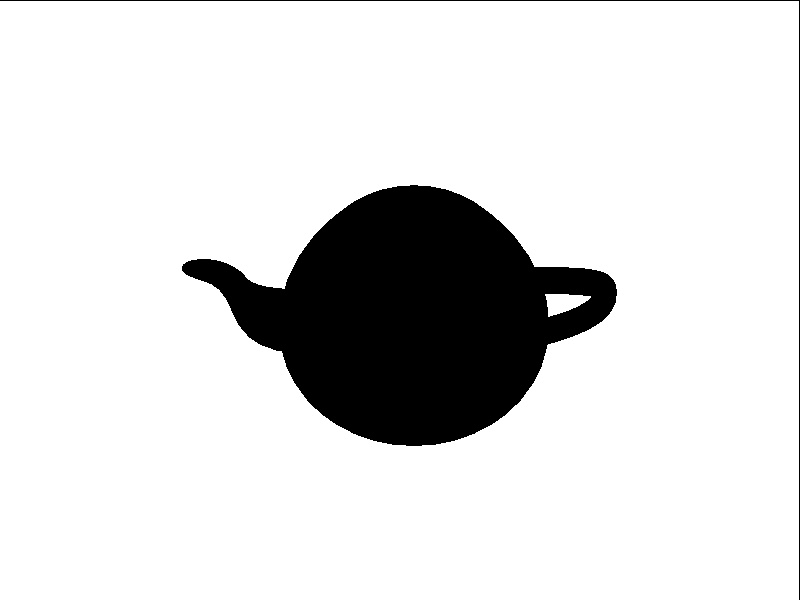
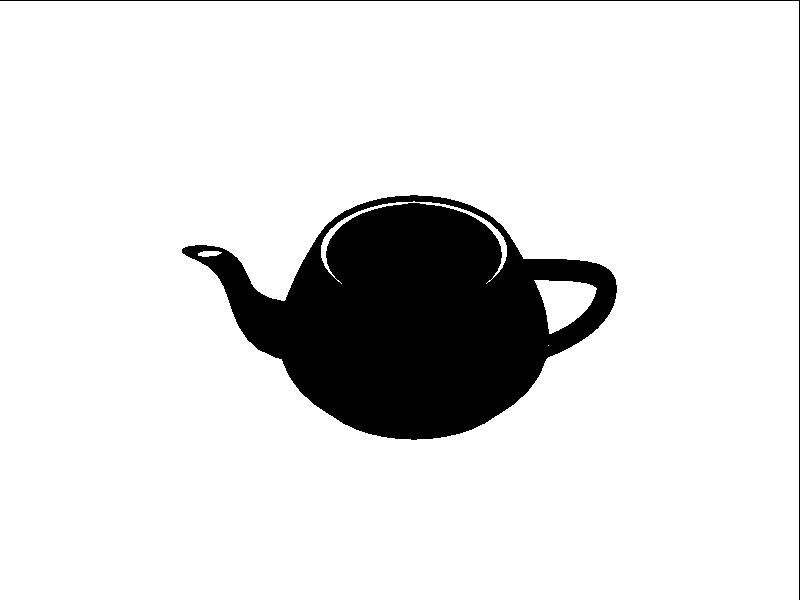
fixed definitively 7 projections+results

diff --git a/main.cpp b/main.cpp
@@ -114,52 +114,66 @@ int main()
                 switch(i){
                 case 1:               
                     //front projection
-                    pos_transform =  transform_OBB.GetModel() * glm::vec4(cubeMesh->centre.x, cubeMesh->centre.y, -view_distance, 1);
+                    pos_transform =  transform_camera.GetModel() * transform_OBB.GetModel() * glm::vec4(cubeMesh->centre.x, cubeMesh->centre.y, -view_distance, 1);
                     pos_transform /= pos_transform.w;
                     pos = glm::vec3(pos_transform.x, pos_transform.y, pos_transform.z);
-                    up = glm::vec3(0.0f, 1.0f, 0.0f);
+                    up_transform = transform_camera.GetModel() * transform_OBB.GetModel() * glm::vec4(0.0f, 1.0f, 0.0f,1);
+                    up_transform /= up_transform.w;
+                    up = glm::vec3(up_transform.x, up_transform.y, up_transform.z);
                     break;
                 case 2:               
                     //left projection
-                    pos_transform = transform_OBB.GetModel() * glm::vec4(view_distance, cubeMesh->centre.y, cubeMesh->centre.z, 1);
+                    pos_transform = transform_camera.GetModel() * transform_OBB.GetModel() * glm::vec4(view_distance, cubeMesh->centre.y, cubeMesh->centre.z, 1);
                     pos_transform /= pos_transform.w;
                     pos = glm::vec3(pos_transform.x,pos_transform.y,pos_transform.z);
-                    up = glm::vec3(0.0f, 1.0f, 0.0f);
+                    up_transform = transform_camera.GetModel() * transform_OBB.GetModel() * glm::vec4(0.0f, 1.0f, 0.0f,1);
+                    up_transform /= up_transform.w;
+                    up = glm::vec3(up_transform.x, up_transform.y, up_transform.z);
                     break;                
                 case 3:                
                     //top projection
-                    pos_transform = transform_OBB.GetModel() * glm::vec4(cubeMesh->centre.x, view_distance, cubeMesh->centre.z, 1);
+                    pos_transform = transform_camera.GetModel() * transform_OBB.GetModel() * glm::vec4(cubeMesh->centre.x, view_distance, cubeMesh->centre.z, 1);
                     pos_transform /= pos_transform.w;
                     pos = glm::vec3(pos_transform.x, pos_transform.y, pos_transform.z);
-                    up = glm::vec3(0.0f, 0.0f, 1.0f);
+                    up_transform = transform_camera.GetModel() * transform_OBB.GetModel() * glm::vec4(0.0f, 0.0f, 1.0f,1);
+                    up_transform /= up_transform.w;
+                    up = glm::vec3(up_transform.x, up_transform.y, up_transform.z);
                     break;                
                 case 4:
                     //top-front-left projection
-                    pos_transform = transform_OBB.GetModel() * glm::vec4(cubeMesh->centre.x - view_distance, cubeMesh->centre.y + view_distance, cubeMesh->centre.z - view_distance, 1);
+                    pos_transform = transform_camera.GetModel() * transform_OBB.GetModel() * glm::vec4(cubeMesh->centre.x - view_distance, cubeMesh->centre.y + view_distance, cubeMesh->centre.z - view_distance, 1);
                     pos_transform /= pos_transform.w;
                     pos = glm::vec3(pos_transform.x, pos_transform.y, pos_transform.z);
-                    up = glm::vec3(0.0f, 1.0f, 0.0f);
+                    up_transform = transform_camera.GetModel() * transform_OBB.GetModel() * glm::vec4(0.0f, 1.0f, 0.0f,1);
+                    up_transform /= up_transform.w;
+                    up = glm::vec3(up_transform.x, up_transform.y, up_transform.z);
                     break;
                 case 5:
                     //top-back-left projection
-                    pos_transform = transform_OBB.GetModel() * glm::vec4(cubeMesh->centre.x - view_distance, cubeMesh->centre.y + view_distance, cubeMesh->centre.z + view_distance, 1);
+                    pos_transform = transform_camera.GetModel() * transform_OBB.GetModel() * glm::vec4(cubeMesh->centre.x - view_distance, cubeMesh->centre.y + view_distance, cubeMesh->centre.z + view_distance, 1);
                     pos_transform /= pos_transform.w;
                     pos = glm::vec3(pos_transform.x, pos_transform.y, pos_transform.z);
-                    up = glm::vec3(0.0f, 1.0f, 0.0f);
+                    up_transform = transform_camera.GetModel() * transform_OBB.GetModel() * glm::vec4(0.0f, 1.0f, 0.0f,1);
+                    up_transform /= up_transform.w;
+                    up = glm::vec3(up_transform.x, up_transform.y, up_transform.z);
                     break;
                 case 6:
                     //top-back-right projection
-                    pos_transform = transform_OBB.GetModel() * glm::vec4(cubeMesh->centre.x + view_distance, cubeMesh->centre.y + view_distance, cubeMesh->centre.z + view_distance, 1);
+                    pos_transform = transform_camera.GetModel() * transform_OBB.GetModel() * glm::vec4(cubeMesh->centre.x + view_distance, cubeMesh->centre.y + view_distance, cubeMesh->centre.z + view_distance, 1);
                     pos_transform /= pos_transform.w;
                     pos = glm::vec3(pos_transform.x, pos_transform.y, pos_transform.z);
-                    up = glm::vec3(0.0f, 1.0f, 0.0f);
+                    up_transform = transform_camera.GetModel() * transform_OBB.GetModel() * glm::vec4(0.0f, 1.0f, 0.0f,1);
+                    up_transform /= up_transform.w;
+                    up = glm::vec3(up_transform.x, up_transform.y, up_transform.z);
                     break;
                 case 7:
                     //top-front-right projection
-                    pos_transform = transform_OBB.GetModel() * glm::vec4(cubeMesh->centre.x + view_distance, cubeMesh->centre.y + view_distance, cubeMesh->centre.z - view_distance, 1);
+                    pos_transform = transform_camera.GetModel() * transform_OBB.GetModel() * glm::vec4(cubeMesh->centre.x + view_distance, cubeMesh->centre.y + view_distance, cubeMesh->centre.z - view_distance, 1);
                     pos_transform /= pos_transform.w;
                     pos = glm::vec3(pos_transform.x, pos_transform.y, pos_transform.z);
-                    up = glm::vec3(0.0f, 1.0f, 0.0f);
+                    up_transform = transform_camera.GetModel() * transform_OBB.GetModel() * glm::vec4(0.0f, 1.0f, 0.0f,1);
+                    up_transform /= up_transform.w;
+                    up = glm::vec3(up_transform.x, up_transform.y, up_transform.z);
                     break;
                 }
                 camera = Camera(pos, mesh, ASPECT, up, 0.1f, 1000.0f);

diff --git a/similarityevaluator.cpp b/similarityevaluator.cpp
@@ -17,6 +17,7 @@ void SimilarityEvaluator::LoadSilhouettesContour(){
     string silPath;
     Mat silSRC, gray;
     SilhouetteData temp_silhouette;
+    silhouettes.clear();
 
     for(int i = 1; i <= n_silhouettes; i++){
 
@@ -70,7 +71,7 @@ vector<Point2d> SimilarityEvaluator::GetContour(cv::Mat gray){
 ////FOURIER DESCRIPTORS
 vector<int> SimilarityEvaluator::CompareFourier(){
     float difference = 0.0f;
-    vector<tuple<int, float>> scores;
+    vector<float> scores;
     std::cout << "-------------FOURIER DESCRIPTORS-------------" << std::endl;
     for(int i = 0; i < n_silhouettes; i++){
            vector<complex<float>> silFD = GetFourierDescriptors(silhouettes.at(i).silhouette, silhouettes.at(i).silIMG);
@@ -79,7 +80,7 @@ vector<int> SimilarityEvaluator::CompareFourier(){
                difference = ComputeFDDifference(silFD, dbElements.at(j).fd);
                std::cout << "Silhouette " << i+1 << " - DB element " << j << " -> Difference = " << difference << std::endl;
                //scores.push_back(difference);
-               scores.push_back(make_tuple(j,difference));
+               scores.push_back(difference);
            }
         std::cout << "--------" << std::endl;
     }
@@ -155,45 +156,65 @@ float SimilarityEvaluator::ComputeFDDifference(vector<complex<float>> fd1, vecto
 vector<int> SimilarityEvaluator::CompareShapeContext(){
     float difference = 0.0f;
     CmShapeContext shapeContext;
-    vector<tuple<int, float>> scores;
+    vector<float> scores;
+
     std::cout << "---------SHAPE CONTEXT DESCRIPTORS---------" << std::endl;
+
     for(int i = 0; i < n_silhouettes; i++){
-           //confronta con gli fd di tutti i db elements
-           for (int j = 0; j < DB_SIZE; j++){
-               //difference = shapeContext.matchCost(silFD, dbElements.at(j).fd);
+
+           for (int j = 0; j < DB_SIZE; j++){                        
                difference = shapeContext.matchCost(silhouettes.at(i).silhouette, dbElements.at(j).contour);
+
                std::cout << "Silhouette " << i+1 << " - DB element " << j << " - Difference = " << difference << std::endl;
-               scores.push_back(make_tuple(j,difference));
+
+               scores.push_back(difference);
            }
+
         std::cout << "--------" << std::endl;
     }
+
     return FindTop(scores);
 }
 
 ////RESULTS
-vector<int> SimilarityEvaluator::FindTop(vector<tuple<int, float>> scores){
+vector<int> SimilarityEvaluator::FindTop(vector<float> scores){
     float min = 1;
-    int indexMin = -1;
-    int vecIndex = 0;
+    int indexMin;
+    int index = 0;
     vector<int> best;
+    vector<float> temp_best;
 
     std::cout << "-------------Results-------------" << std::endl;
 
-    for(int j = 0; j < N_BEST; j++)
+    for(int i = 0; i < n_silhouettes; i++)
     {
-        for (unsigned int i = 0 ; i < scores.size(); i++){
-            if(get<1>(scores.at(i)) < min){
-                min = get<1>(scores.at(i));
-                indexMin = get<0>(scores.at(i));
-                vecIndex = i;
+        for (unsigned int j = 0 ; j < DB_SIZE; j++)
+        {
+            if (i == 0)
+                temp_best.push_back(scores.at(index));
+            else
+                if(scores.at(index) < temp_best.at(j))
+                    temp_best.at(j) = scores.at(index);
+
+            index++;
+        }
+    }
+
+    for(int i = 0; i < N_BEST ; i++)
+    {
+        for (unsigned int j = 0 ; j < temp_best.size(); j++)
+        {
+            if(temp_best.at(j)<min){
+                min = temp_best.at(j);
+                indexMin = j;
             }
         }
-        scores.erase(scores.begin()+vecIndex);
-        std::cout << "Best #" << j+1 << " - index " <<indexMin << " - difference " << min << ". Material: " << dbElements.at(indexMin).name << std::endl;
         best.push_back(indexMin);
 
+        std::cout << "Best #" << i+1 << " - index " <<indexMin << " - difference " << min << ". Material: " << dbElements.at(indexMin).name << std::endl;
+
+        temp_best.at(indexMin) = 1;
         min = 1;
-        indexMin = -1;
     }
 
     return best;

diff --git a/similarityevaluator.h b/similarityevaluator.h
@@ -52,7 +52,7 @@ private:
     void GetDBFourierDescriptors();
     float ComputeFDDifference(vector<complex<float>> fd1, vector<complex<float>> fd2);
 
-    vector<int> FindTop(vector<tuple<int, float>> scores);
+    vector<int> FindTop(vector<float> scores);
 
 };
 
